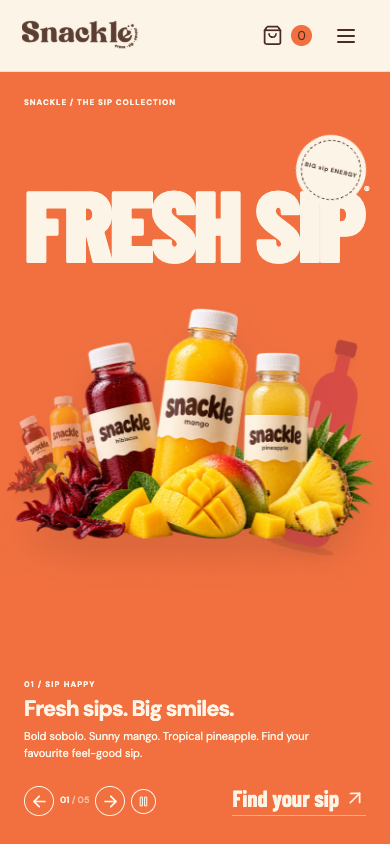
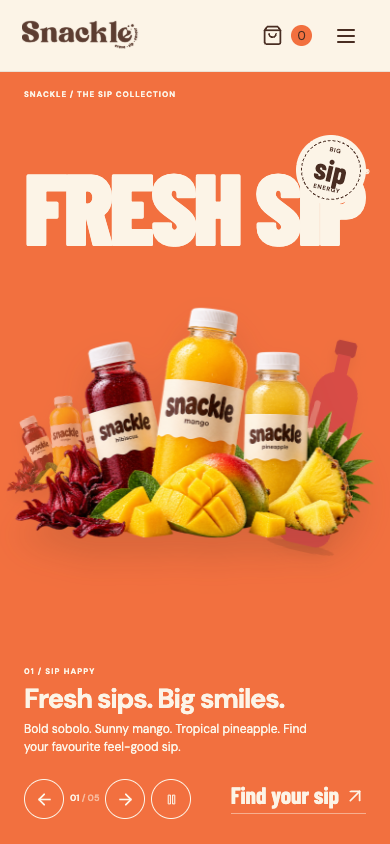
Expand owner website controls and validate requests

diff --git a/src/CustomizationEditor.tsx b/src/CustomizationEditor.tsx
@@ -1,13 +1,40 @@
 import {useState} from 'react';
 import {csrf} from './api';
-import {type SiteConfig,type Customization} from './config';
-const headings:Record<keyof Customization,string>={brand:'Brand, logos & favicon',service:'Accra service & fulfilment',navigation:'Navigation labels',home:'Homepage content & images',pages:'Menu, story, booking & contact pages',footerStyle:'Footer presentation',carousel:'Carousel motion & labels',loading:'Loading skeletons & thumbnails',notFound:'Custom 404 page'};
-const words=(key:string)=>key.replace(/([A-Z])/g,' $1').replace(/^./,s=>s.toUpperCase());
-export function AssetField({label,value,onChange}:{label:string;value:string;onChange:(value:string)=>void}){const [busy,setBusy]=useState(false),[error,setError]=useState('');return <div className="asset-field"><label>{label}<input value={value} onChange={e=>onChange(e.target.value)} placeholder="Image URL or uploaded image"/></label><div className="asset-row">{value&&<img src={value} alt={`${label} preview`}/>}<label className="upload-button">{busy?'Uploading…':'Upload image'}<input aria-label={`Upload ${label}`} type="file" accept="image/png,image/jpeg,image/webp" disabled={busy} onChange={async e=>{const file=e.target.files?.[0];e.target.value='';if(!file)return;setBusy(true);setError('');try{if(file.size>4*1024*1024)throw Error('Choose an image smaller than 4 MB.');const r=await fetch('/api/admin/images',{method:'POST',headers:{'Content-Type':file.type,'X-CSRF-Token':csrf},body:file});const data=await r.json();if(!r.ok)throw Error(data.error);onChange(data.url);}catch(e){setError((e as Error).message);}finally{setBusy(false);}}}/></label>{value&&<button type="button" className="text-link" onClick={()=>onChange('')}>Clear</button>}</div>{error&&<p role="alert" className="notice">{error}</p>}</div>;}
-export default function CustomizationEditor({config,update}:{config:SiteConfig;update:(c:SiteConfig)=>void}){return <div className="customization-editor">{(Object.keys(headings) as (keyof Customization)[]).map(group=><details className="settings-group" key={group}><summary>{headings[group]}</summary><div className="settings-fields form">{group==='service'&&<p className="fineprint">Ghana is the current operating country. Enter one service area per line. Customers must select an available area for deliveries and events.</p>}{group==='notFound'&&<a href="#/page-preview-404" target="_blank" rel="noreferrer" className="text-link">Preview the 404 page ↗</a>}{group==='brand'&&<p className="fineprint">For the favicon, upload a square PNG (64 × 64 or larger). Choose colours with readable contrast. Footer logo is optional.</p>}{Object.entries(config[group]).map(([key,value])=>{const label=words(key);const set=(next:unknown)=>update({...config,[group]:{...config[group],[key]:next}});if(typeof value==='boolean')return <label className="checkbox-label" key={key}><input type="checkbox" checked={value} onChange={e=>set(e.target.checked)}/>{label}</label>;
-if(['logo','footerLogo','favicon','thumbnail','image'].includes(key)||key.endsWith('Image'))return <AssetField key={key} label={label} value={String(value)} onChange={set}/>;
-let options:string[]|undefined;if(key==='headingFont')options=['Barlow Condensed','Quantico','Georgia'];if(key==='bodyFont')options=['DM Sans','Quantico','Georgia'];if(key==='currency')options=['GHS','USD','GBP','EUR'];if(key==='country')options=['Ghana'];
-if(options)return <label key={key}>{label}<select value={String(value)} onChange={e=>set(e.target.value)}>{options.map(o=><option key={o}>{o}</option>)}</select></label>;
-if(['background','ink','accent','highlight'].includes(key))return <label key={key}>{label}<div className="colour-field"><input type="color" value={String(value)} onChange={e=>set(e.target.value)}/><input aria-label={`${label} hex`} value={String(value)} onChange={e=>set(e.target.value)}/></div></label>;
-if(typeof value==='number')return <label key={key}>{label}<input type="number" min={3} max={30} value={value} onChange={e=>set(Number(e.target.value))}/></label>;
-return <label key={key}>{label}<textarea rows={String(value).includes('\n')||String(value).length>100?3:2} value={String(value)} maxLength={5000} onChange={e=>set(e.target.value)}/></label>;})}</div></details>)}</div>;}
+import type {SiteConfig, Customization} from './config';
+
+const groups: {key:keyof Customization;title:string;description:string}[] = [
+  {key:'brand',title:'Brand & identity',description:'Name, logo, browser details, fonts and core colours.'},
+  {key:'service',title:'Service & ordering',description:'Delivery, pickup, bookings, service areas and customer notices.'},
+  {key:'navigation',title:'Navigation labels',description:'Labels shown in the site header and footer.'},
+  {key:'home',title:'Home page',description:'Ticker, catering feature and story feature.'},
+  {key:'pages',title:'Menu, story, catering & contact',description:'Headings, descriptions, buttons, images and form options.'},
+  {key:'footerStyle',title:'Footer presentation',description:'Footer callout, wordmark and small print.'},
+  {key:'carousel',title:'Carousel details',description:'Rotation timing, badges and section labels.'},
+  {key:'loading',title:'Image loading',description:'Placeholders and image error text.'},
+  {key:'notFound',title:'Missing page',description:'Text, colour and image for the 404 page.'},
+];
+const assetKeys=/^(logo|footerLogo|favicon|thumbnail|image|.*Image)$/;
+const colourKeys=/^(background|ink|accent|highlight)$/;
+const multilineKeys=/^(areas|occasions|bookSteps|.*Title|.*Badge|body)$/;
+const label=(key:string)=>key.replace(/([a-z])([A-Z])/g,'$1 $2').replace(/^./,s=>s.toUpperCase());
+
+export function AssetField({label:caption,value,onChange}:{label:string;value:string;onChange:(value:string)=>void}){
+  const [busy,setBusy]=useState(false),[error,setError]=useState('');
+  async function upload(file:File|undefined){if(!file)return;setError('');if(file.size>4*1024*1024){setError('Choose an image smaller than 4 MB.');return;}setBusy(true);try{const response=await fetch('/api/admin/images',{method:'POST',headers:{'Content-Type':file.type,'X-CSRF-Token':csrf},body:file});const data=await response.json();if(!response.ok)throw Error(data.error||'Upload failed.');onChange(data.url);}catch(e){setError((e as Error).message);}finally{setBusy(false);}}
+  return <label className="custom-field"><span>{caption}</span><input value={value} onChange={e=>onChange(e.target.value)} placeholder="/images/example.png or https://…"/>{value&&<img className="asset-preview" src={value} alt="Current asset preview"/>}<span className="asset-upload">{busy?'Uploading…':'Upload image'}<input type="file" accept="image/png,image/jpeg,image/webp" disabled={busy} onChange={e=>{upload(e.target.files?.[0]);e.target.value='';}}/></span>{error&&<small role="alert">{error}</small>}</label>;
+}
+
+export default function CustomizationEditor({config,update}:{config:SiteConfig;update:(next:SiteConfig)=>void}){
+  function patch(group:keyof Customization,key:string,value:string|boolean|number){update({...config,[group]:{...config[group],[key]:value}});}
+  return <div className="customization-editor">{groups.map(({key,title,description})=><details className="custom-group" key={key} open={key==='brand'}><summary><strong>{title}</strong><small>{description}</small></summary><div className="custom-grid">{Object.entries(config[key]).map(([field,value])=>{
+    const caption=label(field);const change=(v:string|boolean|number)=>patch(key,field,v);
+    if(typeof value==='boolean')return <label className="custom-field custom-checkbox" key={field}><input type="checkbox" checked={value} onChange={e=>change(e.target.checked)}/><span>{caption}</span></label>;
+    if(typeof value==='number')return <label className="custom-field" key={field}><span>{caption}</span><input type="number" min={field==='seconds'?3:0} max={field==='seconds'?30:10000} value={value} onChange={e=>change(Number(e.target.value))}/></label>;
+    if(assetKeys.test(field))return <AssetField key={field} label={caption} value={value} onChange={change}/>;
+    if(key==='brand'&&field==='headingFont'||key==='brand'&&field==='bodyFont')return <label className="custom-field" key={field}><span>{caption}</span><select value={value} onChange={e=>change(e.target.value)}>{(field==='headingFont'?['Barlow Condensed','Quantico','Georgia']:['DM Sans','Quantico','Georgia']).map(font=><option key={font}>{font}</option>)}</select></label>;
+    if(key==='service'&&field==='currency')return <label className="custom-field" key={field}><span>{caption}</span><select value={value} onChange={e=>change(e.target.value)}>{['GHS','USD','GBP','EUR'].map(currency=><option key={currency}>{currency}</option>)}</select></label>;
+    if(colourKeys.test(field))return <label className="custom-field" key={field}><span>{caption}</span><span className="custom-color"><input value={value} onChange={e=>change(e.target.value)} pattern="#[0-9a-fA-F]{6}"/><input aria-label={`Choose ${caption} colour`} type="color" value={/^#[\da-f]{6}$/i.test(value)?value:'#ffffff'} onChange={e=>change(e.target.value)}/></span></label>;
+    if(multilineKeys.test(field)||value.includes('\n')||value.length>160)return <label className="custom-field custom-wide" key={field}><span>{caption}</span><textarea rows={field==='areas'||field==='occasions'?5:3} value={value} onChange={e=>change(e.target.value)}/>{(field==='areas'||field==='occasions'||field==='bookSteps')&&<small>One item per line</small>}</label>;
+    return <label className="custom-field" key={field}><span>{caption}</span><input value={value} onChange={e=>change(e.target.value)}/></label>;
+  })}</div></details>)}</div>;
+}

diff --git a/src/OwnerPortal.tsx b/src/OwnerPortal.tsx
@@ -1,19 +1,19 @@
 import {useEffect,useState} from 'react';
 import {ArrowLeft,LogOut,Save,LockKeyhole} from 'lucide-react';
-import Admin from './Admin';import {api,type Product} from './api';import {type SiteConfig} from './config';import {useShop} from './Shop';
+import Admin from './Admin';import {api} from './api';import {type SiteConfig} from './config';import {useShop} from './Shop';
+import ProductsEditor from './ProductsEditor';
 type Props={config:SiteConfig;update:(c:SiteConfig)=>void;reset:()=>void;entryKey:string};
-export function OwnerPortal(props:Props){const [auth,setAuth]=useState<boolean|null>(null),[configured,setConfigured]=useState(true),[error,setError]=useState(''),[busy,setBusy]=useState(false),[tab,setTab]=useState('requests'),[requests,setRequests]=useState<any[]>([]),[notice,setNotice]=useState('');const {products,currency,reload}=useShop();
+export function OwnerPortal(props:Props){const [auth,setAuth]=useState<boolean|null>(null),[configured,setConfigured]=useState(true),[error,setError]=useState(''),[busy,setBusy]=useState(false),[tab,setTab]=useState('requests'),[requests,setRequests]=useState<any[]>([]),[notice,setNotice]=useState('');const {reload}=useShop();
 useEffect(()=>{api('/session').then(s=>{setAuth(s.authenticated);setConfigured(s.configured);}).catch(e=>{setError(e.message);setAuth(false);});},[]);
 async function load(){try{setRequests((await api('/admin/requests')).requests);setError('');}catch(e){setError((e as Error).message);}}
 useEffect(()=>{if(auth)load();},[auth]);
 async function login(e:React.FormEvent<HTMLFormElement>){e.preventDefault();setBusy(true);setError('');try{await api('/login','POST',{...Object.fromEntries(new FormData(e.currentTarget)) as Record<string,string>,entryKey:props.entryKey});setAuth(true);}catch(e){setError((e as Error).message);}finally{setBusy(false);}}
-async function save(){setBusy(true);setError('');setNotice('');try{await api('/admin/config','PUT',props.config);setNotice('Website changes saved for all visitors.');}catch(e){setError((e as Error).message);}finally{setBusy(false);}}
+async function save(){setBusy(true);setError('');setNotice('');try{await api('/admin/config','PUT',props.config);await reload();setNotice('Website changes saved for all visitors.');}catch(e){setError((e as Error).message);}finally{setBusy(false);}}
 async function logout(){try{await api('/admin/logout','POST',{});window.location.href='#/';window.location.reload();}catch(e){setError((e as Error).message);}}
 if(auth===null)return <main className="login-page"><p>Checking owner access…</p></main>;
 if(!auth)return <main className="login-page"><a href="#/" className="text-link"><ArrowLeft size={17}/> Back to Snackle</a><form onSubmit={login} className="login-card form"><LockKeyhole size={30}/><p className="eyebrow">SNACKLE OWNER</p><h1>A little<br/><em>behind the scenes.</em></h1><p>Private access for Snackle’s owner.</p>{!configured&&<p className="notice">Owner access hasn’t been activated. Run <code>npm run setup:admin</code> on the server to set your password.</p>}<label>Email<input name="email" type="email" autoComplete="username" required/></label><label>Password<input name="password" type="password" autoComplete="current-password" required maxLength={256}/></label>{error&&<p role="alert" className="notice">{error}</p>}<button className="button full" disabled={busy||!configured}>{busy?'Signing in…':'Sign in securely'}</button></form></main>;
 return <main className="owner-page"><header className="owner-header"><div><a href="#/" className="text-link"><ArrowLeft size={16}/> View website</a><h1>The kitchen desk.</h1><p>Signed in as Snackle’s sole owner</p></div><button className="button secondary" onClick={logout}><LogOut size={17}/> Sign out</button></header><div className="owner-toolbar"><div className="filter-tabs">{['requests','products','website'].map(t=><button key={t} onClick={()=>{setTab(t);setNotice('');}} className={tab===t?'active':''}>{t==='requests'?'Orders & bookings':t==='products'?'Menu & pricing':'Website editor'}</button>)}</div>{tab==='website'&&<button className="button" onClick={save} disabled={busy}><Save size={16}/>{busy?'Saving…':'Publish changes'}</button>}</div>{error&&<p role="alert" className="notice">{error}</p>}{notice&&<p role="status" className="notice">{notice}</p>}
 {tab==='requests'&&<><div className="request-heading"><p>{requests.filter(r=>r.status==='new').length} new requests · latest 1,000 shown</p><button className="text-link" onClick={load}>Refresh requests</button></div>{requests.length===0?<div className="empty-state"><h2>A fresh start.</h2><p>Orders and event enquiries will appear here.</p></div>:<div className="request-list">{requests.map(r=><article className="request-card" key={r.id}><div className="request-heading"><span className="eyebrow">{r.kind} · {r.id}</span><span>{new Date(r.created).toLocaleString()}</span></div><h3>{r.name}</h3><p><a href={`mailto:${r.email}`}>{r.email}</a> · {r.phone}</p><p><strong>{r.date}</strong> · {r.kind==='booking'?`${r.eventType} · ${r.guests} guests`:r.fulfilment}</p>{r.address&&<p>{r.address}</p>}{r.items&&<ul>{r.items.map((i:any)=><li key={i.id}>{i.quantity} × {i.name} ({i.unit})</li>)}</ul>}{r.total!==undefined&&<p>{r.total===null?'Quote needed':`Food & drinks subtotal: ${r.currency} ${r.total.toFixed(2)}`}</p>}{r.notes&&<p className="request-notes">{r.notes}</p>}<label>Status <select value={r.status} onChange={async e=>{try{await api(`/admin/requests/${r.id}`,'PATCH',{status:e.target.value});await load();}catch(e){setError((e as Error).message);}}}>{['new','confirmed','completed','cancelled'].map(s=><option key={s}>{s}</option>)}</select></label><p className="fineprint">Status changes are internal. Contact the customer directly to confirm details.</p></article>)}</div>}</>}
-{tab==='products'&&<><p className="notice">Prices use {currency}. Leave a price empty to accept quote requests. Set the actual portion size before selling.</p><div className="owner-products">{products.map(p=><ProductEditor key={p.id} product={p} refresh={reload}/>)}</div></>}
+{tab==='products'&&<ProductsEditor/>}
 {tab==='website'&&<div className="website-editor"><p className="notice">Edits are a draft until you publish changes above.</p><Admin {...props}/></div>}</main>;
 }
-function ProductEditor({product,refresh}:{product:Product;refresh:()=>Promise<void>}){const [price,setPrice]=useState(product.price===null?'':String(product.price)),[unit,setUnit]=useState(product.unit),[available,setAvailable]=useState(product.available),[message,setMessage]=useState(''),[busy,setBusy]=useState(false);return <form className="product-editor form" onSubmit={async e=>{e.preventDefault();setBusy(true);try{await api(`/admin/products/${product.id}`,'PUT',{price:price===''?null:Number(price),unit,available});await refresh();setMessage('Saved');}catch(e){setMessage((e as Error).message);}finally{setBusy(false);}}}><h3>{product.name}</h3><label>Price<input type="number" step="0.01" min="0.01" max="100000" value={price} onChange={e=>setPrice(e.target.value)}/></label><label>Portion / bottle size<input value={unit} onChange={e=>setUnit(e.target.value)} required maxLength={80}/></label><label className="checkbox-label"><input type="checkbox" checked={available} onChange={e=>setAvailable(e.target.checked)}/> Available to order</label><button className="button" disabled={busy}>{busy?'Saving…':'Save product'}</button><p role="status">{message}</p></form>;}

diff --git a/src/index.css b/src/index.css
@@ -9,3 +9,67 @@
 .website-editor>div>header{display:flex}
 .hero-scene{transition:background-color .65s ease,color .65s ease}.orbit-stage{position:absolute;inset:24% 0 17%;touch-action:pan-y;perspective:1200px;outline-offset:-6px}.orbit-slide{position:absolute;top:0;bottom:0;left:50%;width:58%;display:flex;align-items:center;justify-content:center;transition:transform .7s cubic-bezier(.22,.68,0,1),opacity .7s,filter .7s;will-change:transform;pointer-events:none}.orbit-slide img{height:100%;width:100%;object-fit:contain;filter:drop-shadow(0 22px 16px #492d2226);user-select:none}.orbit-center{transform:translateX(-50%) translateZ(0) scale(1);z-index:5;opacity:1}.orbit-left{transform:translateX(-105%) translateY(9%) rotate(-13deg) scale(.48);z-index:2;opacity:.65;filter:blur(1px)}.orbit-right{transform:translateX(5%) translateY(9%) rotate(13deg) scale(.48);z-index:2;opacity:.65;filter:blur(1px)}.orbit-back{transform:translateX(-50%) translateY(5%) scale(.2);z-index:1;opacity:0}.hero-sticker{z-index:7}.scene-bottom{z-index:8}.image-editor{display:flex;flex-direction:column;gap:15px}.image-editor-row{display:grid;grid-template-columns:65px minmax(0,1fr);gap:15px;padding:16px;background:#fbfaf9;border:1px solid #e6e4e1;border-radius:8px}.image-editor-row>img{width:65px;height:90px;object-fit:contain;background:#f1e6d3;border-radius:5px}.image-editor-fields{display:grid;grid-template-columns:1fr 1fr;gap:12px}.image-editor-fields>label:first-child{grid-column:1/-1}.image-editor-actions{display:flex;gap:10px;align-items:center;flex-wrap:wrap}.image-editor-actions button{background:white;border:1px solid #d9cbbd;padding:7px 12px;font-size:11px;border-radius:5px}.image-upload{display:block;padding:22px;border:1px dashed #aa8b73;border-radius:8px;background:#fcf4e7}.image-upload input{margin-top:12px;max-width:100%;font-size:12px}.image-upload span{display:block;font-size:12px;font-weight:600}.image-editor-fields label{display:flex;flex-direction:column;gap:5px;font-size:11px}.image-editor-fields input{border:1px solid #d9cbbd;border-radius:5px;padding:10px;width:100%;min-width:0;font-size:12px}.image-editor-caption{font-size:12px;margin:0}.website-editor>div>section:last-child{display:block}
 @media(max-width:700px){.orbit-stage{inset:29% 0 28%}.orbit-slide{width:95%}.orbit-left{transform:translateX(-85%) translateY(4%) rotate(-13deg) scale(.38);opacity:.55}.orbit-right{transform:translateX(-15%) translateY(4%) rotate(13deg) scale(.38);opacity:.55}.carousel-buttons{gap:6px}.carousel-buttons .carousel-play{width:25px;height:25px}.image-editor-fields{grid-template-columns:1fr}.image-editor-row{grid-template-columns:45px minmax(0,1fr);padding:12px;gap:10px}.image-editor-row>img{width:45px}.scene-controls .hero-cta{font-size:23px;gap:5px}}
+
+/* Owner controls and small-screen refinements */
+:root{font-family:var(--body-font,'DM Sans',sans-serif)}
+h1,h2,.hero-word,.footer-word,.story-art span,.hero-cta,.hero-sticker strong{font-family:var(--heading-font,'Barlow Condensed',sans-serif)}
+.customization-editor{max-width:1040px;display:grid;gap:14px;margin:24px 0 60px}
+.custom-group{background:#fff;border:1px solid #e6d8ca;border-radius:16px;overflow:hidden}
+.custom-group summary{list-style:none;cursor:pointer;padding:22px 26px;display:flex;justify-content:space-between;gap:15px;align-items:center}
+.custom-group summary::-webkit-details-marker{display:none}
+.custom-group summary:after{content:'+';font-size:25px;line-height:1;color:#9c6148}
+.custom-group[open] summary:after{content:'−'}
+.custom-group summary strong{font-family:var(--heading-font);font-size:25px;line-height:1}
+.custom-group summary small{font-size:12px;color:#776355;max-width:55%;text-align:right;line-height:1.4}
+.custom-grid{padding:8px 26px 26px;display:grid;grid-template-columns:repeat(2,minmax(0,1fr));gap:18px}
+.custom-field{display:flex;flex-direction:column;gap:7px;font-size:12px;font-weight:700;min-width:0}
+.custom-field>span:first-child{font-size:11px;text-transform:uppercase;letter-spacing:.1em}
+.custom-field input:not([type=file]):not([type=checkbox]),.custom-field select,.custom-field textarea{width:100%;min-width:0;border:1px solid #cbb9aa;border-radius:8px;padding:12px;background:#fffdfa;color:#492d22;font-size:15px;font-weight:400;line-height:1.4}
+.custom-field textarea{resize:vertical;min-height:74px}
+.custom-field small{font-size:11px;color:#776355;font-weight:400}
+.custom-wide{grid-column:1/-1}
+.custom-checkbox{flex-direction:row;align-items:center;padding:13px;border-radius:8px;background:#f8f0e6;gap:10px}
+.custom-checkbox input{width:20px;height:20px;accent-color:#492d22}
+.custom-color{display:flex;align-items:center;gap:8px}
+.custom-color input[type=color]{width:48px!important;height:46px;padding:3px!important;flex:none}
+.asset-preview{max-width:160px;max-height:90px;object-fit:contain;background:#f5ebdc;border-radius:6px;padding:5px}
+.asset-upload{font-size:12px;font-weight:600;background:#f5ebdc;padding:10px 12px;border-radius:7px;display:block}
+.asset-upload input{display:block;margin-top:7px;max-width:100%;font-size:11px}
+@media(max-width:700px){
+ .snackle-section{position:relative;height:max(100svh,680px);min-height:0}
+ .scene-topline{top:88px}
+ .hero-word{top:19%;font-size:clamp(92px,26vw,180px)}
+ .orbit-stage{inset:28% 0 27%}
+ .scene-bottom{bottom:25px}
+ .scene-copy h1{font-size:clamp(25px,7vw,34px)}
+ .scene-copy p{font-size:12px;line-height:1.45}
+ .scene-controls{gap:8px;flex-wrap:wrap}
+ .carousel-buttons .round-button{min-width:40px;min-height:40px}
+ .scene-controls .hero-cta{font-size:clamp(22px,6vw,29px)}
+ .nav-links.is-open{box-shadow:0 20px 25px #492d2220}
+ .nav-links a{padding:10px 2px;font-size:16px}
+ .filter-tabs{flex-wrap:nowrap;overflow-x:auto;max-width:100%;padding-bottom:6px;scrollbar-width:thin}
+ .filter-tabs button{white-space:nowrap;min-height:44px}
+ .owner-toolbar{position:relative;gap:12px}
+ .owner-toolbar>.button{width:100%}
+ .custom-grid{grid-template-columns:1fr;padding:5px 18px 20px}
+ .custom-group summary{padding:18px;align-items:flex-start}
+ .custom-group summary small{display:none}
+ .custom-wide{grid-column:auto}
+ .customization-editor{margin-top:15px}
+ .basket-dialog{width:100vw}
+ .basket-inner{padding:20px 20px 30px}
+}
+@media(max-width:480px){
+ .product-grid{grid-template-columns:1fr;gap:18px}
+ .product-art{height:260px}
+ .product-copy{padding:14px 2px 22px}
+ .product-copy h3{min-height:0;font-size:20px}
+ .product-copy p{min-height:0;font-size:13px}
+ .product-bottom strong{font-size:13px}
+ .product-bottom .round-button{width:44px;height:44px}
+ .page-heading h1,.booking-intro h1,.story-layout h1{font-size:clamp(54px,15vw,76px)}
+ .catering-copy h2,.brand-note h2{font-size:clamp(52px,14vw,70px)}
+}
+@media(max-width:480px){.catering-art{overflow:hidden}.catering-art img{width:100%;max-width:100%}.brand-note,.catering-copy,.footer-top{min-width:0}}
+@media(max-width:480px){.home{overflow-x:clip}}

diff --git a/api/requests.ts b/api/requests.ts
@@ -1,6 +1,7 @@
 import { getSql, ensureSchema } from '../lib/db.js';
 import { json, checkOrigin, parseBody } from '../lib/respond.js';
 import { randomBytes } from 'node:crypto';
+import {hydrateCustomization} from '../shared/customization.mjs';
 
 export default async function handler(req: any, res: any) {
   if (req.method !== 'POST') {
@@ -15,6 +16,8 @@ export default async function handler(req: any, res: any) {
   try {
     await ensureSchema();
     const sql = getSql();
+    const settings = await sql`SELECT value FROM settings WHERE id = 1`.then(r => r[0]);
+    const service = hydrateCustomization(settings ? JSON.parse(settings.value) : {}).service;
     const body = await parseBody(req);
     const { kind, name, email, phone, date, notes = '', fulfilment, address = '', guests, eventType, country = 'Ghana', area, items } = body;
     if (typeof name !== 'string' || name.trim().length < 2 || name.length > 120 ||
@@ -29,14 +32,24 @@ export default async function handler(req: any, res: any) {
       json(res, 400, { error: 'Invalid request type.' });
       return;
     }
+    const today = new Date().toLocaleDateString('en-CA',{timeZone:'Africa/Accra'});
+    const allowedAreas = service.areas.split('\n').map((a:string)=>a.trim()).filter(Boolean);
+    if(date<today || Number.isNaN(Date.parse(date)) || country!==service.country || ((kind==='booking'||fulfilment==='delivery')&&!allowedAreas.includes(area))){
+      json(res,400,{error:'Choose a future date and an available service area.'});
+      return;
+    }
     let resolvedItems: any[] | undefined;
     let total: number | null | undefined;
     if (kind === 'booking') {
+      if(!service.bookingEnabled){json(res,400,{error:'Event enquiries are currently paused.'});return;}
       if (!Number.isInteger(guests) || guests < 1 || guests > 10000 || typeof eventType !== 'string' || eventType.length < 2 || typeof address !== 'string' || address.length < 3) {
         json(res, 400, { error: 'Check the guest count, occasion and event location.' });
         return;
       }
     } else {
+      if((fulfilment==='pickup'&&!service.pickupEnabled)||(fulfilment==='delivery'&&!service.deliveryEnabled)){
+        json(res,400,{error:'That fulfilment option is currently unavailable.'});return;
+      }
       if (!['pickup', 'delivery'].includes(fulfilment) || (fulfilment === 'delivery' && (!address || address.length < 5)) || !Array.isArray(items) || items.length < 1 || items.length > 20) {
         json(res, 400, { error: 'Check your basket and delivery details.' });
         return;
@@ -83,7 +96,7 @@ export default async function handler(req: any, res: any) {
       eventType,
       items: resolvedItems,
       total,
-      currency: 'GHS',
+      currency: service.currency,
     };
     await sql`INSERT INTO requests (id, kind, status, created, value) VALUES (${id}, ${kind}, 'new', ${new Date().toISOString()}, ${JSON.stringify(record)})`;
     json(res, 201, { id, status: 'new' });

diff --git a/src/CarouselSection.tsx b/src/CarouselSection.tsx
@@ -20,7 +20,7 @@ export default function CarouselSection({section,index=0}:{section:SectionConfig
  <div className="orbit-stage" role="region" aria-roledescription="carousel" aria-label={`${section.title} product images`} tabIndex={0} onKeyDown={e=>{if(e.key==='ArrowLeft'){e.preventDefault();go(-1);}if(e.key==='ArrowRight'){e.preventDefault();go(1);}}} onPointerDown={e=>{touch.current={x:e.clientX,y:e.clientY};}} onPointerUp={e=>{if(!touch.current)return;const dx=e.clientX-touch.current.x,dy=e.clientY-touch.current.y;touch.current=null;if(Math.abs(dx)>45&&Math.abs(dx)>Math.abs(dy)){go(dx<0?1:-1);}}} onPointerCancel={()=>{touch.current=null;}}>
  {section.images.map((image,i)=><div key={`${section.id}-${i}-${image.src}`} className={`orbit-slide orbit-${role(i)}`} aria-hidden={i!==selected} role="group" aria-roledescription="slide" aria-label={`${i+1} of ${count}: ${image.alt}`}><SmartImage src={image.src} alt={image.alt} draggable={false} fetchPriority={index===0&&i===0?'high':'auto'}/></div>)}
  </div>
- <>{c.showBadge&&<div className="hero-sticker">{(juice?c.sipBadge:c.biteBadge).split('\\n').map((line,i)=>i===1?<strong key={i}>{line}</strong>:<span key={i}>{line}</span>)}</div>}
+ <>{c.showBadge&&<div className="hero-sticker">{(juice?c.sipBadge:c.biteBadge).split('\n').map((line,i)=>i===1?<strong key={i}>{line}</strong>:<span key={i}>{line}</span>)}</div>}
  <div className="scene-side-note">{juice?c.sipNote:c.biteNote}</div></>
  <div className="scene-bottom"><div className="scene-copy"><span className="eyebrow">0{index+1} / {juice?c.sipEyebrow:c.biteEyebrow}</span><h1>{section.title}</h1><p>{section.description}</p></div><div className="scene-controls"><div className="carousel-buttons"><button className="round-button" disabled={count<2} aria-label={`Previous ${section.title}`} onClick={()=>go(-1)}><ArrowLeft size={19}/></button><span aria-live={paused?'polite':'off'}>{String(count?selected+1:0).padStart(2,'0')} <span className="muted">/ {String(count).padStart(2,'0')}</span></span><button className="round-button" disabled={count<2} aria-label={`Next ${section.title}`} onClick={()=>go(1)}><ArrowRight size={19}/></button>{c.autoplay&&!reduced&&count>1&&<button className="round-button carousel-play" aria-label={paused?'Play slideshow':'Pause slideshow'} onClick={()=>setPaused(!paused)}>{paused?<Play size={13}/>:<Pause size={13}/>}</button>}</div><a className="hero-cta" href={builtIn?`#/menu?category=${juice?'Sips':'Bites'}`:'#/menu'}>{section.cta}<ArrowUpRight/></a></div></div>
  </div>;

diff --git a/api/admin/products/index.ts b/api/admin/products/index.ts
@@ -1,0 +1,23 @@
+import {getSql,ensureSchema} from '../../../lib/db.js';
+import {json,getCookie,parseBody} from '../../../lib/respond.js';
+import {createHash,randomBytes} from 'node:crypto';
+import {validProduct} from '../../../lib/validation.mjs';
+
+export default async function handler(req:any,res:any){
+  if(req.method!=='POST'){json(res,405,{error:'Method not allowed'});return;}
+  try{
+    await ensureSchema();
+    const sql=getSql();
+    const cookie=getCookie(req,'snackle_session')||'';
+    const token=createHash('sha256').update(cookie).digest('hex');
+    const session=await sql`SELECT * FROM sessions WHERE token = ${token} AND expires > ${Date.now()}`.then(r=>r[0]);
+    if(!session){json(res,401,{error:'Please sign in as the owner.'});return;}
+    if(req.headers['x-csrf-token']!==session.csrf||req.headers.origin!==(process.env.APP_ORIGIN||'')){json(res,403,{error:'Please refresh and try again.'});return;}
+    const body=await parseBody(req);
+    if(!validProduct(body)){json(res,400,{error:'Check product details, image URL, colour and price.'});return;}
+    const id='product-'+randomBytes(8).toString('hex');
+    const product={...body,id};
+    await sql`INSERT INTO products (id,value) VALUES (${id},${JSON.stringify(product)})`;
+    json(res,201,{ok:true,id});
+  }catch(e:any){json(res,500,{error:e.message||'Product creation error'});}
+}

diff --git a/api/admin/products/[id].ts b/api/admin/products/[id].ts
@@ -1,6 +1,7 @@
 import { getSql, ensureSchema } from '../../../lib/db.js';
 import { json, getCookie, parseBody } from '../../../lib/respond.js';
 import { createHash } from 'node:crypto';
+import {validProduct} from '../../../lib/validation.mjs';
 
 const digest = (token: string) => createHash('sha256').update(token).digest('hex');
 
@@ -33,6 +34,10 @@ export default async function handler(req: any, res: any) {
       }
       const body = await parseBody(req);
       const next = { ...JSON.parse(old.value), ...body, id };
+      if (!validProduct(next)) {
+        json(res, 400, { error: 'Check product details, image URL, colour and price.' });
+        return;
+      }
       await sql`INSERT INTO products VALUES (${id}, ${JSON.stringify(next)}) ON CONFLICT (id) DO UPDATE SET value = ${JSON.stringify(next)}`;
       json(res, 200, { ok: true, id });
     } catch (e: any) {

diff --git a/api/admin/config.ts b/api/admin/config.ts
@@ -1,6 +1,7 @@
 import { getSql, ensureSchema } from '../../lib/db.js';
 import { json, getCookie, parseBody } from '../../lib/respond.js';
 import { createHash } from 'node:crypto';
+import {validSiteConfig} from '../../lib/validation.mjs';
 
 const digest = (token: string) => createHash('sha256').update(token).digest('hex');
 
@@ -29,6 +30,10 @@ export default async function handler(req: any, res: any) {
       return;
     }
     const body = await parseBody(req);
+    if (!validSiteConfig(body)) {
+      json(res, 400, { error: 'Check the content, image URLs and six-digit colours.' });
+      return;
+    }
     await sql`INSERT INTO settings VALUES (1, ${JSON.stringify(body)}) ON CONFLICT (id) DO UPDATE SET value = ${JSON.stringify(body)}`;
     json(res, 200, { ok: true });
   } catch (e: any) {

diff --git a/api/catalog.ts b/api/catalog.ts
@@ -7,7 +7,9 @@ export default async function handler(_req: any, res: any) {
     const sql = getSql();
     const rows = await sql`SELECT value FROM products ORDER BY id`;
     const products = rows.map((row) => JSON.parse(row.value));
-    json(res, 200, { products, currency: 'GHS' });
+    const settings = await sql`SELECT value FROM settings WHERE id = 1`.then(r => r[0]);
+    const currency = settings ? JSON.parse(settings.value)?.service?.currency : undefined;
+    json(res, 200, { products, currency: ['GHS','USD','GBP','EUR'].includes(currency) ? currency : 'GHS' });
   } catch (e: any) {
     json(res, 500, { error: e.message || 'Catalog error' });
   }

diff --git a/index.html b/index.html
@@ -5,7 +5,7 @@
     <link rel="icon" href="/favicon.svg" />
     <meta name="viewport" content="width=device-width, initial-scale=1.0" />
     <meta name="description" content="Big flavour, little bites, and refreshing sips. Explore Snackle’s small chops, sobolo and fruit drinks, order your favourites or plan your next event." />
-    <title>Snackle — crave · sip · flavour</title>
+    <title>Snackle — crave · sip · savour</title>
     <link rel="preconnect" href="https://fonts.googleapis.com" />
     <link rel="preconnect" href="https://fonts.gstatic.com" crossorigin />
     <link

diff --git a/src/Admin.tsx b/src/Admin.tsx
@@ -1,5 +1,6 @@
 import { useState } from 'react';
 import ImageEditor from './ImageEditor';
+import CustomizationEditor from './CustomizationEditor';
 import {
   MAX_SECTIONS,
   THEMES,
@@ -567,6 +568,7 @@ export default function Admin({ config, update, reset }: Props) {
         </Field>
       </section>
 
+      <CustomizationEditor config={config} update={update}/>
 
     </div>
   );

diff --git a/src/config.ts b/src/config.ts
@@ -161,7 +161,7 @@ export function defaultConfig(): SiteConfig {
       },
     ],
     footer: {
-      tagline: 'crave · sip · flavour — fresh juice and hot small chops, made to order.',
+      tagline: 'crave · sip · savour — fresh juice and hot small chops, made to order.',
       email: 'cindyafidoku0@gmail.com',
       phone: '',
       location: 'Accra, Ghana',
